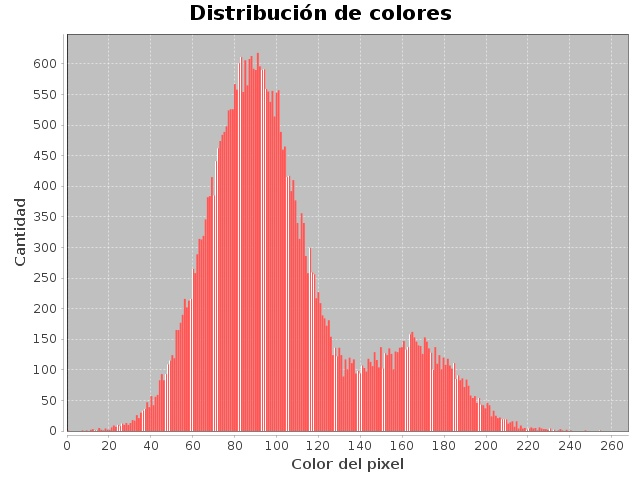
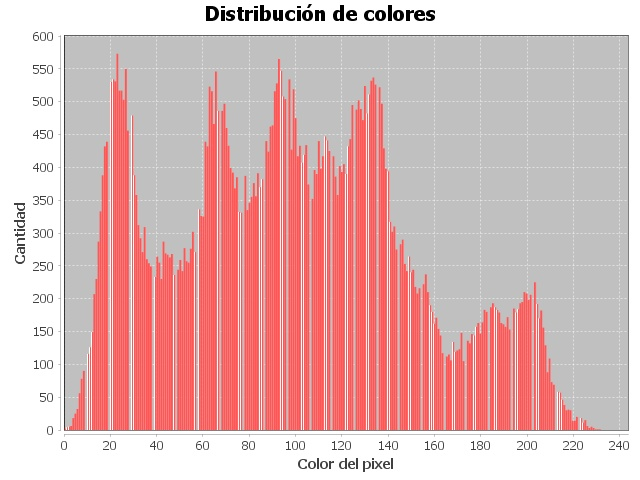
fix increase contrast

diff --git a/src/model/image/ImageGray.java b/src/model/image/ImageGray.java
@@ -255,8 +255,8 @@ public class ImageGray implements Image {
 			for (int j = 0; j < this.height; j++) {
 				if (this.image[i][j] < r1) {
 					this.image[i][j] = calculateContrast(this.image[i][j], 0, r1, 0, s1);	
-				} else if (this.image[i][j] >= r1 || this.image[i][j] <= r2) {
-					this.image[i][j] = calculateContrast(this.image[i][j], r1, s1, r2, s2);
+				} else if (this.image[i][j] >= r1 && this.image[i][j] <= r2) {
+					this.image[i][j] = calculateContrast(this.image[i][j], r1, r2, s1, s2);
 				} else {
 					this.image[i][j] = calculateContrast(this.image[i][j], r2, 255, s2, 255);
 				}
@@ -267,7 +267,7 @@ public class ImageGray implements Image {
 	}
 
 	private double calculateContrast(double pixel, double r1, double r2, double s1, double s2) {
-		return ((s2 - s1) / (r2 - r1)) * pixel + s1 - ((s2 - s2) / (r2 - r1)) * r1;
+		return ((s2 - s1) / (r2 - r1)) * pixel + s1 - ((s2 - s1) / (r2 - r1)) * r1;
 	}
 
 }

diff --git a/src/controller/TransformMenu.java b/src/controller/TransformMenu.java
@@ -331,8 +331,8 @@ public class TransformMenu extends Menu {
 				switch (img.getType()) {
 				case IMAGE_GRAY: {
 					ImageGray imgGray = (ImageGray) img.copy();
-					controller.setSecondaryImage(imgGray);
 					imgGray = imgGray.increaseContrast(r1, r2, s1, s2);
+					controller.setSecondaryImage(imgGray);
 					break;
 				}
 				}
